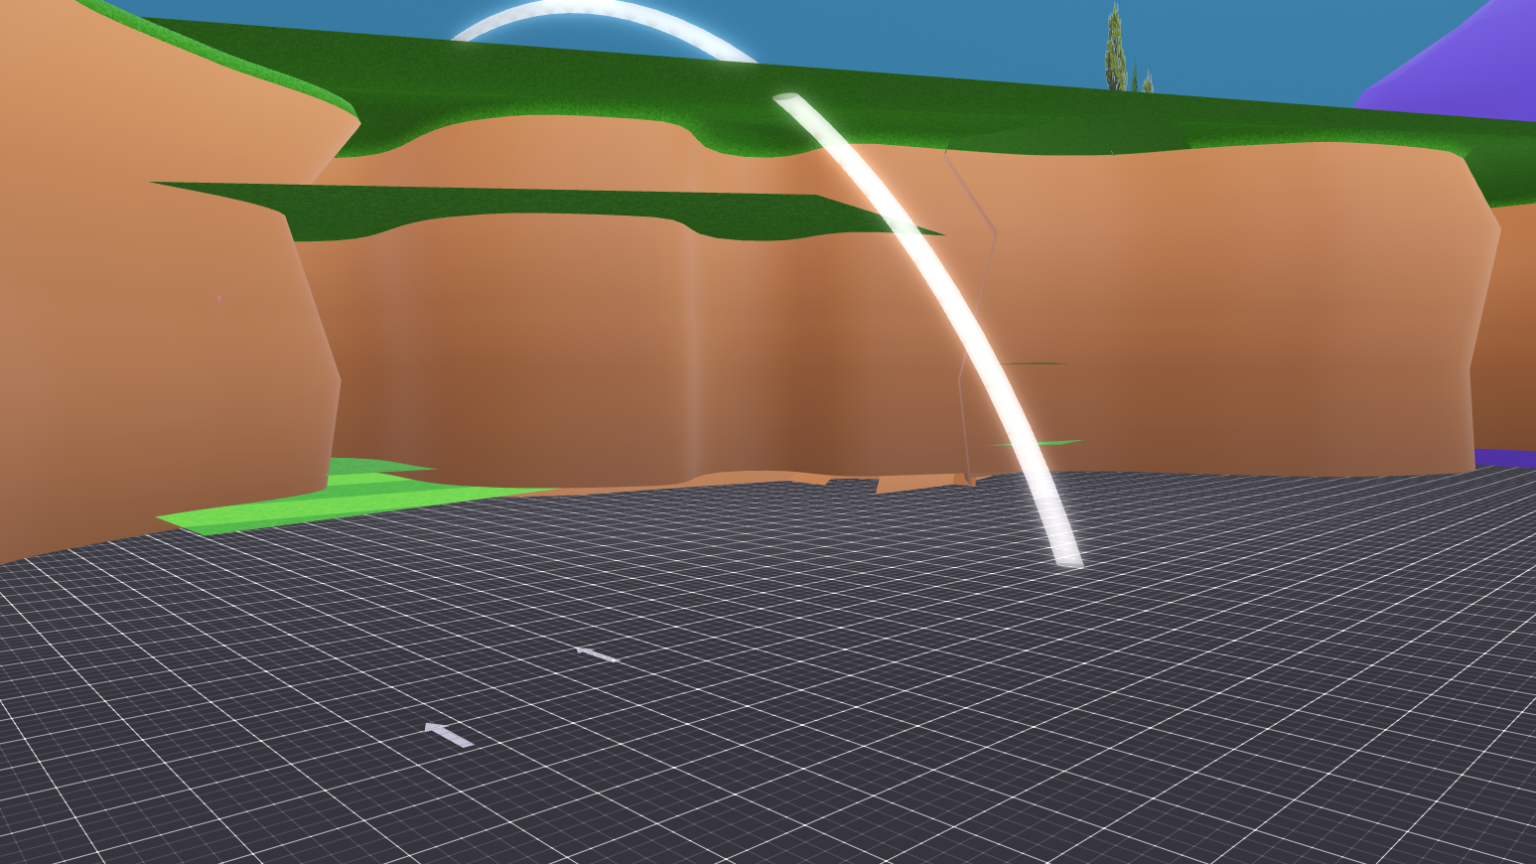
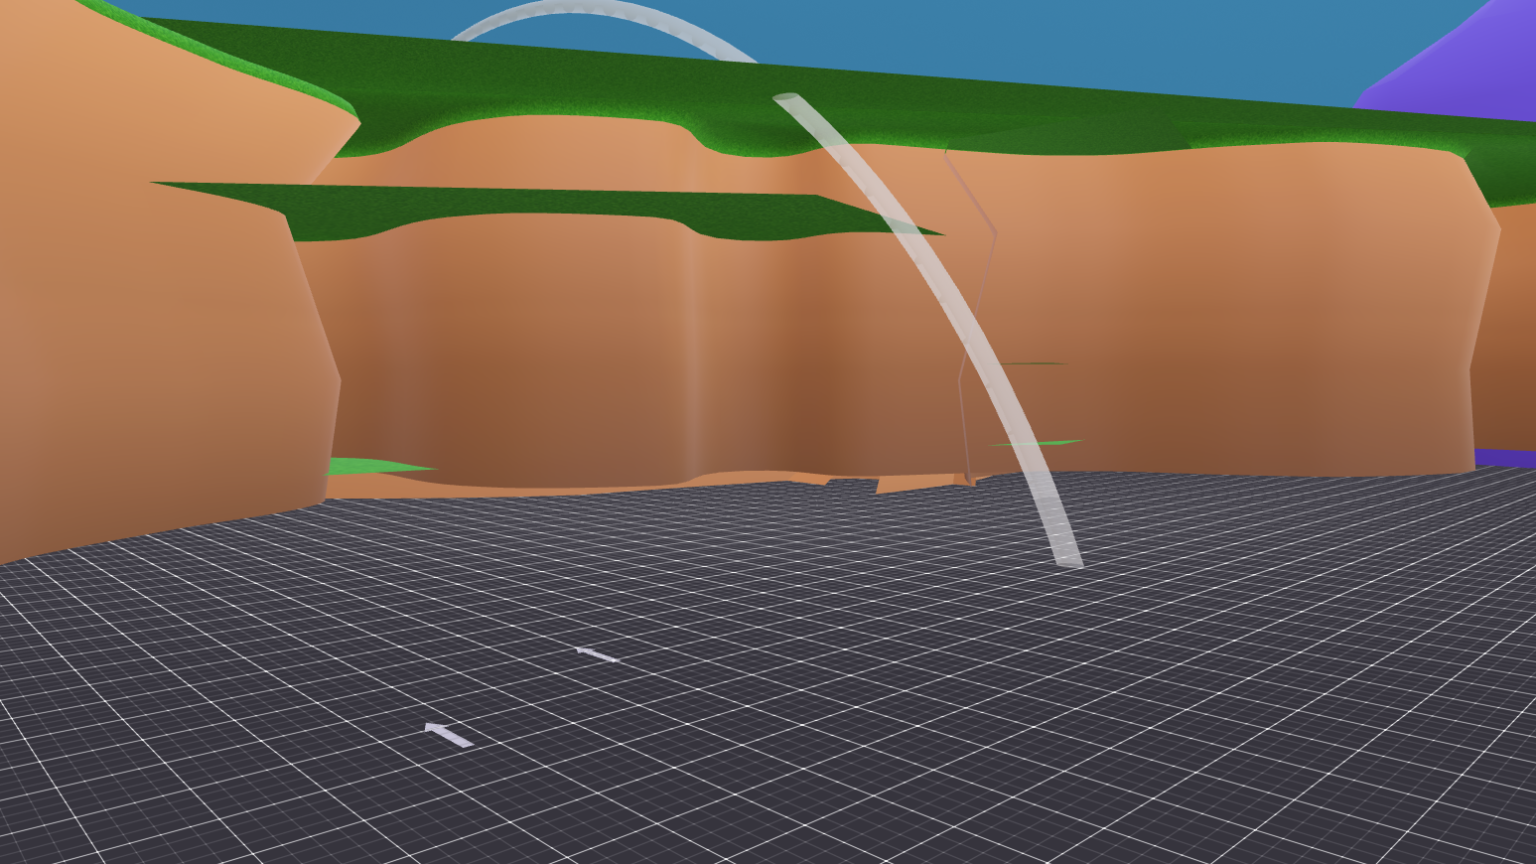
Audio fixes

diff --git a/Pixel Golf/src/hotTarget.ts b/Pixel Golf/src/hotTarget.ts
@@ -43,6 +43,13 @@ const WARN_GLOW_MAX = 8
 const RIM_LIFT = 0.06
 /** Ground more than this above the hole counts as a wall, not the rim (the cliff by Black) */
 const CLIFF_SKIP = 10
+/**
+ * Targets whose glow sits on the lower ground round their edge (the lowest quarter), not the
+ * highest. Black's strip is fairway (4.5 m) with its ends running up the banks to about 8 m: at
+ * the highest point the glow floated nearly 4 m over the holes like a lid. Low, it lies on the
+ * fairway along the strip's sides and its ends tuck into the banks.
+ */
+const RIM_LOW: { [colour: string]: boolean } = { Black: true }
 
 // Variables For the Light Ring
 const ZONE_OVERRIDE = 'Black'
@@ -121,13 +128,19 @@ export function setupHotTargetMarker(zoneEntity: (zone: string) => Entity | unde
         // The rim's height: the highest real grass just outside the target's edge, round it
         const hole = courseSurfaceAt(x, z) ?? t.position.y
         let grass = hole
+        const heights: number[] = []
         for (const f of [1, 1.1]) {
           for (let i = 0; i < 48; i++) {
             const a = (i / 48) * Math.PI * 2
             const local = Vector3.rotate(Vector3.create(Math.sin(a) * rx * f, 0, Math.cos(a) * rz * f), t.rotation)
             const h = courseSurfaceAt(x + local.x, z + local.z)
+            if (h !== null && h <= hole + CLIFF_SKIP) heights.push(h)
             if (h !== null && h > grass && h <= hole + CLIFF_SKIP) grass = h
           }
+        }
+        if (RIM_LOW[zone.replace(/\d+$/, '')] && heights.length) {
+          heights.sort((p, q) => p - q)
+          grass = Math.max(hole, heights[Math.floor(heights.length / 4)])
         }
         rimTexture = RIM_TEXTURE_FOR[zone.replace(/\d+$/, '')] ?? RIM_TEXTURE
         // Flat on the ground, the target's own shape and turn (the long Black strip gets its own glow)

diff --git a/Pixel Golf/src/voice.ts b/Pixel Golf/src/voice.ts
@@ -8,17 +8,16 @@ import { voiceLevel } from './audio'
 //   great   any target hit
 //   big     the hot target, or one of the hardest targets (White, Black)
 //   miss    no target, a bunker, or off the range
-//   flight  just after the strike, now and then, while the ball is in the air
 
-export type VoiceMoment = 'great' | 'big' | 'miss' | 'flight'
+export type VoiceMoment = 'great' | 'big' | 'miss'
 
 const VO_DIR = 'assets/sounds/vo/'
 
 const LINES: Record<VoiceMoment, string[]> = {
   great: ['great_1', 'great_2', 'whatashot_1', 'whatashot_2', 'whatashot_3'],
   big: ['unbelievable', 'betyoucouldnt', 'whatashot_1', 'whatashot_3'],
-  miss: ['miss_1', 'miss_2', 'miss_3', 'taunt_1', 'taunt_2'],
-  flight: ['getinthehole']
+  // getinthehole says "Maybe try getting it in the hole", so it's a miss taunt
+  miss: ['miss_1', 'miss_2', 'miss_3', 'taunt_1', 'taunt_2', 'getinthehole']
 }
 
 /** In the tutorial, a miss only gets "That's a miss", never a taunt */
@@ -28,16 +27,14 @@ const KIND_MISS = ['miss_1', 'miss_2', 'miss_3']
 const CHANCE: Record<VoiceMoment, number> = {
   great: 1,
   big: 1,
-  miss: 1,
-  flight: 0.25
+  miss: 1
 }
 
 /** Seconds after the moment before the line starts, so it follows the score jingle or the strike */
 const DELAY: Record<VoiceMoment, number> = {
   great: 0.35,
   big: 0.35,
-  miss: 0.3,
-  flight: 0.5
+  miss: 0.3
 }
 
 const VOLUME = 0.85

diff --git a/Pixel Golf/src/game.ts b/Pixel Golf/src/game.ts
@@ -925,8 +925,6 @@ export class Game {
     // Driver lowest, wedge highest; harder swings are louder
     const clubPitch = { driver: 0.92, iron: 1.04, wedge: 1.16 }[getSelectedClubType()]
     playAt('club_hit', this.physics.position(), 0.55 + this.storedPower * 0.45, clubPitch)
-    // Now and then the commentator chips in while the ball's in the air (not in the tutorial)
-    if (!tutorial.active) sayLine('flight')
     // The ball leaves as soon as its path is here (normally already, see prepareShot)
     this.startPendingShot()
     this.state.shot++
